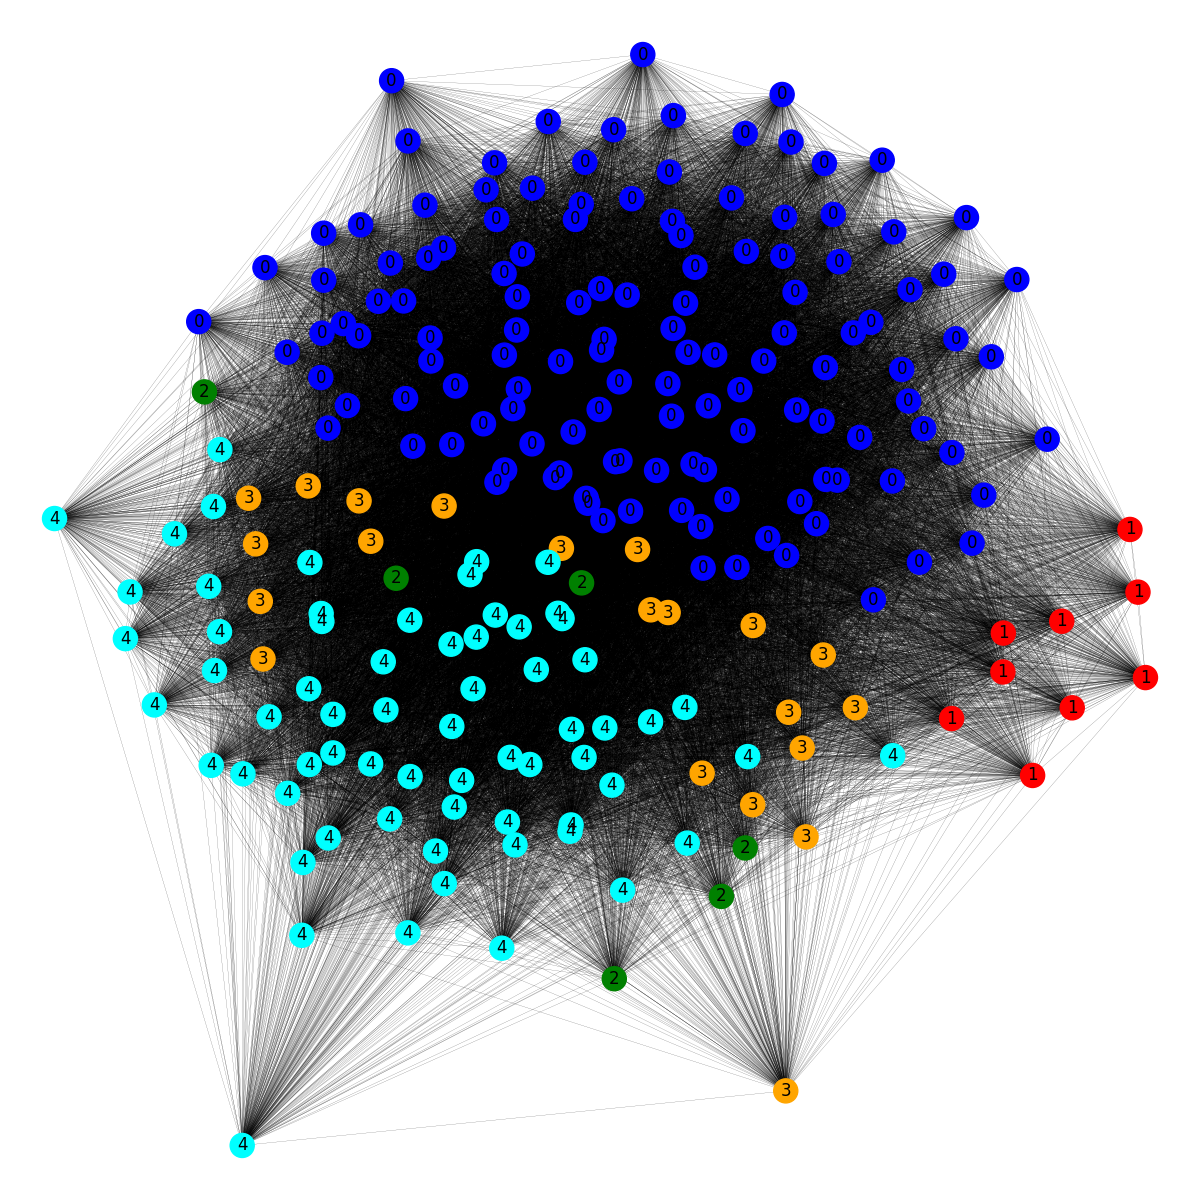
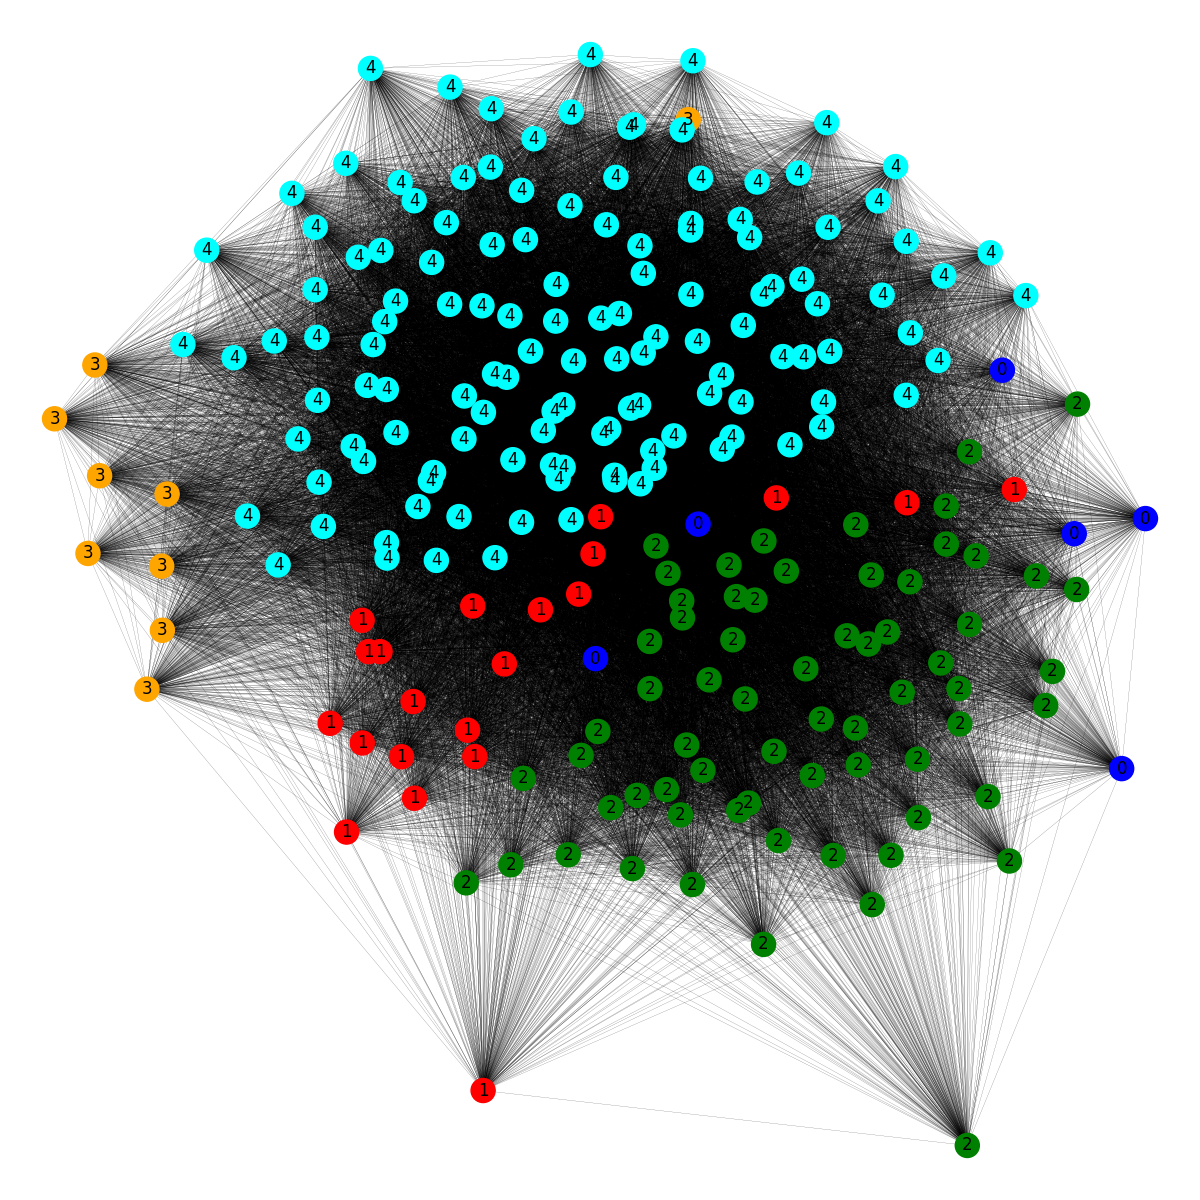
new

diff --git a/binary search in python.py b/binary search in python.py
@@ -1,31 +1,163 @@
-# Binary Search in python
+# παραδειγμα αυτοποιησης για να βρουμε το καλυτερο resolution για το καλυτερο clustering
+import numpy as np
+# Apply clustering and show the node attributes of each community/cluster
+import community
+import networkx as nx
+import matplotlib.pyplot as plt
+import numpy as np
+
+# read the graph and use the label attributes (party, noitype)
+from politicians_evaluation import print_metrics_cluster
+
+G = nx.read_gexf('nois_projected_graph_overlap_attributes.gexf', relabel=True)
 
 
-def binarySearch(array, x, low, high):
-
-    # Repeat until the pointers low and high meet each other
-    while low <= high:
-
-        mid = low + (high - low)//2
-
-        if array[mid] == x:
-            return mid
-
-        elif array[mid] < x:
-            low = mid + 1
-
-        else:
-            high = mid - 1
-
-    return -1
+# the resolution parameter influences the number of communities
+def experiment(resolution):
+    partition = community.best_partition(G, resolution=resolution)
+    size = float(len(set(partition.values())))
+    # print('> Experiment:')
+    # print('Resolution parameter: ', resolution)
+    # print('num of partitions: ', size)
+    return partition
 
 
-array = [3, 4, 5, 6, 7, 8, 9]
-x = 4
+def louvainCreator(resolution):
+    partition = experiment(resolution)
 
-result = binarySearch(array, x, 0, len(array)-1)
+    # sort the nodes by their community number
+    result = sorted(partition.items(), key=lambda item: item[1])
 
-if result != -1:
-    print("Element is present at index " + str(result))
-else:
-    print("Not found")
+    ground_truth_labels_dict = {}
+    # louvain_labels_dict = {}
+
+    louvain_labels = [c for c in partition.values()]
+
+    # Dictionary with parties
+    parties = {'nd', 'syriza', 'kinal', 'elli', 'mera'}
+    zip_iterator = zip(parties, range(5))
+    parties_id = dict(zip_iterator)
+
+    # Get information for each node
+    count = 0
+    for com in set(partition.values()):
+        list_nodes = [nodes for nodes in partition.keys()
+                      if partition[nodes] == com]
+        for name in list_nodes:
+            node = G.nodes[name]
+            ground_truth_labels_dict[name] = parties_id[node['party']]  # username : party id
+            # if 'party' in node.keys():
+            #     print(count, ',', name, ',', node['party'])
+            # else:
+            #     print(count, ',', name, ',', 'NO PARTY')
+            #     print(f'Warning: Node {node} has no label')
+            #
+            # if 'noitype' in node.keys():
+            #     print(count, ", ", name, ", ", node['noitype'])
+            # else:
+            #     print(count, ',', name, ',', 'NO NOITYPE')
+        count = count + 1
+    # Prepare label lists
+    ground_truth_labels = []
+    for node in G.nodes:
+        ground_truth_labels.append(ground_truth_labels_dict[node])
+
+    # return a dict with 2 lists, ground truth labels and louvain labels
+    return {
+        "groundTruths": ground_truth_labels,
+        "louvainLabels": louvain_labels
+    }
+
+
+# Ground Truth για το clustering: Το πραγματικό κόμμα κάθε βουλευτή
+# Evaluation fo the quality of the clustering
+# function returns a dict with all the metrics
+def specific_res(G,ground_truth_labels,louvain_labels):
+    metrics = print_metrics_cluster('f{resolution}', ground_truth_labels, louvain_labels)
+    return metrics
+
+# TEST
+
+low = 0.5
+high = 2.0
+k = 10
+step = (high-low)/k
+x = 0.91
+
+
+float_res_array = np.arange(low, high, step)
+float_res_list = list(float_res_array)
+sorted_res_list = sorted(float_res_list)
+
+
+
+
+while low <= high:
+
+    mid = low + (high - low)//2
+
+    if sorted_res_list[mid] == x:
+        best_res = mid
+
+    elif sorted_res_list[mid] < x:
+        low = mid + 1
+
+    else:
+        high = mid - 1
+
+
+    best_res = None
+    best_metric = None
+    for res in float_res_array:
+        parametersForCurrentRes = louvainCreator(res)
+        metrics_specific_res = specific_res(G, parametersForCurrentRes["groundTruths"], parametersForCurrentRes["louvainLabels"])
+        # print(metrics_specific_res)
+
+        normalized_mutual_info = metrics_specific_res['nmi_score']
+        if best_res == None:
+            best_res = res
+            best_metric = normalized_mutual_info
+        elif normalized_mutual_info > best_metric:
+            best_res = res
+            best_metric = normalized_mutual_info
+
+        #elif normalized_mutual_info > best_metric:
+        #   break
+        # print("===============================Metrics for ", res," ==============================")
+    print("Best resolution is %s and best metric is %s" % (best_res, best_metric))
+
+    low = best_res - step
+    high = best_res + step
+    step = (high - low) / k
+
+    float_res_array = np.arange(low, high, step)
+    float_res_list = list(float_res_array)
+    sorted_res_list = list(float_res_array)
+    i = i + 1
+
+# print(sorted_res_list)
+
+# # return the value of the mutual info score
+#
+# color_palette = ['blue', 'red', 'green', 'orange', 'cyan', 'grey']
+# color_map = []
+# for node in G:
+#     color_map.append(color_palette[ground_truth_labels_dict[node]])
+#
+# # Canvas size
+# plt.figure(1, figsize=(12, 12))
+#
+# # width: edge width
+# # node_color: List with the color of each graph node
+# # labels: Dictionary with the label of each node
+# nx.draw(G, labels=ground_truth_labels_dict, with_labels=True, node_color=color_map, width=0.1)
+# plt.savefig("Graph_Louvain.png")
+#
+# # nx.draw(G, with_labels=True)
+# plt.show()
+
+
+
+
+
+

diff --git a/politicain_louvain_find_best_res.py b/politicain_louvain_find_best_res.py
@@ -72,7 +72,7 @@ def louvainCreator(resolution):
 # Ground Truth για το clustering: Το πραγματικό κόμμα κάθε βουλευτή
 # Evaluation fo the quality of the clustering
 # function returns a dict with all the metrics
-def specific_res(G,ground_truth_labels,louvain_labels):
+def specific_res(G,ground_truth_labels, louvain_labels):
     metrics = print_metrics_cluster('f{resolution}', ground_truth_labels, louvain_labels)
     return metrics
 
@@ -89,7 +89,7 @@ float_res_list = list(float_res_array)
 sorted_res_list = sorted(float_res_list)
 
 
-while i <= 4:
+while i <= 5:
 
     best_res = None
     best_metric = None
@@ -117,7 +117,7 @@ while i <= 4:
 
     float_res_array = np.arange(low, high, step)
     float_res_list = list(float_res_array)
-    sorted_res_list = list(float_res_array)
+    sorted_res_list = sorted(float_res_array)
     i = i + 1
 
 # print(sorted_res_list)

diff --git a/politicians_draw_graph.py b/politicians_draw_graph.py
@@ -54,10 +54,6 @@ for node in G.nodes:
 # Evaluation fo the quality of the clustering
 print_metrics_cluster('f{resolution}', ground_truth_labels, louvain_labels)
 
-# labeldict = {}
-# labeldict["Node1"] = "shopkeeper"
-# labeldict["Node2"] = "angry man with parrot"
-
 # parties: nd, syriza, kinal, elli, mera
 color_palette = ['blue', 'red', 'green', 'orange', 'cyan', 'grey']
 color_map = []
